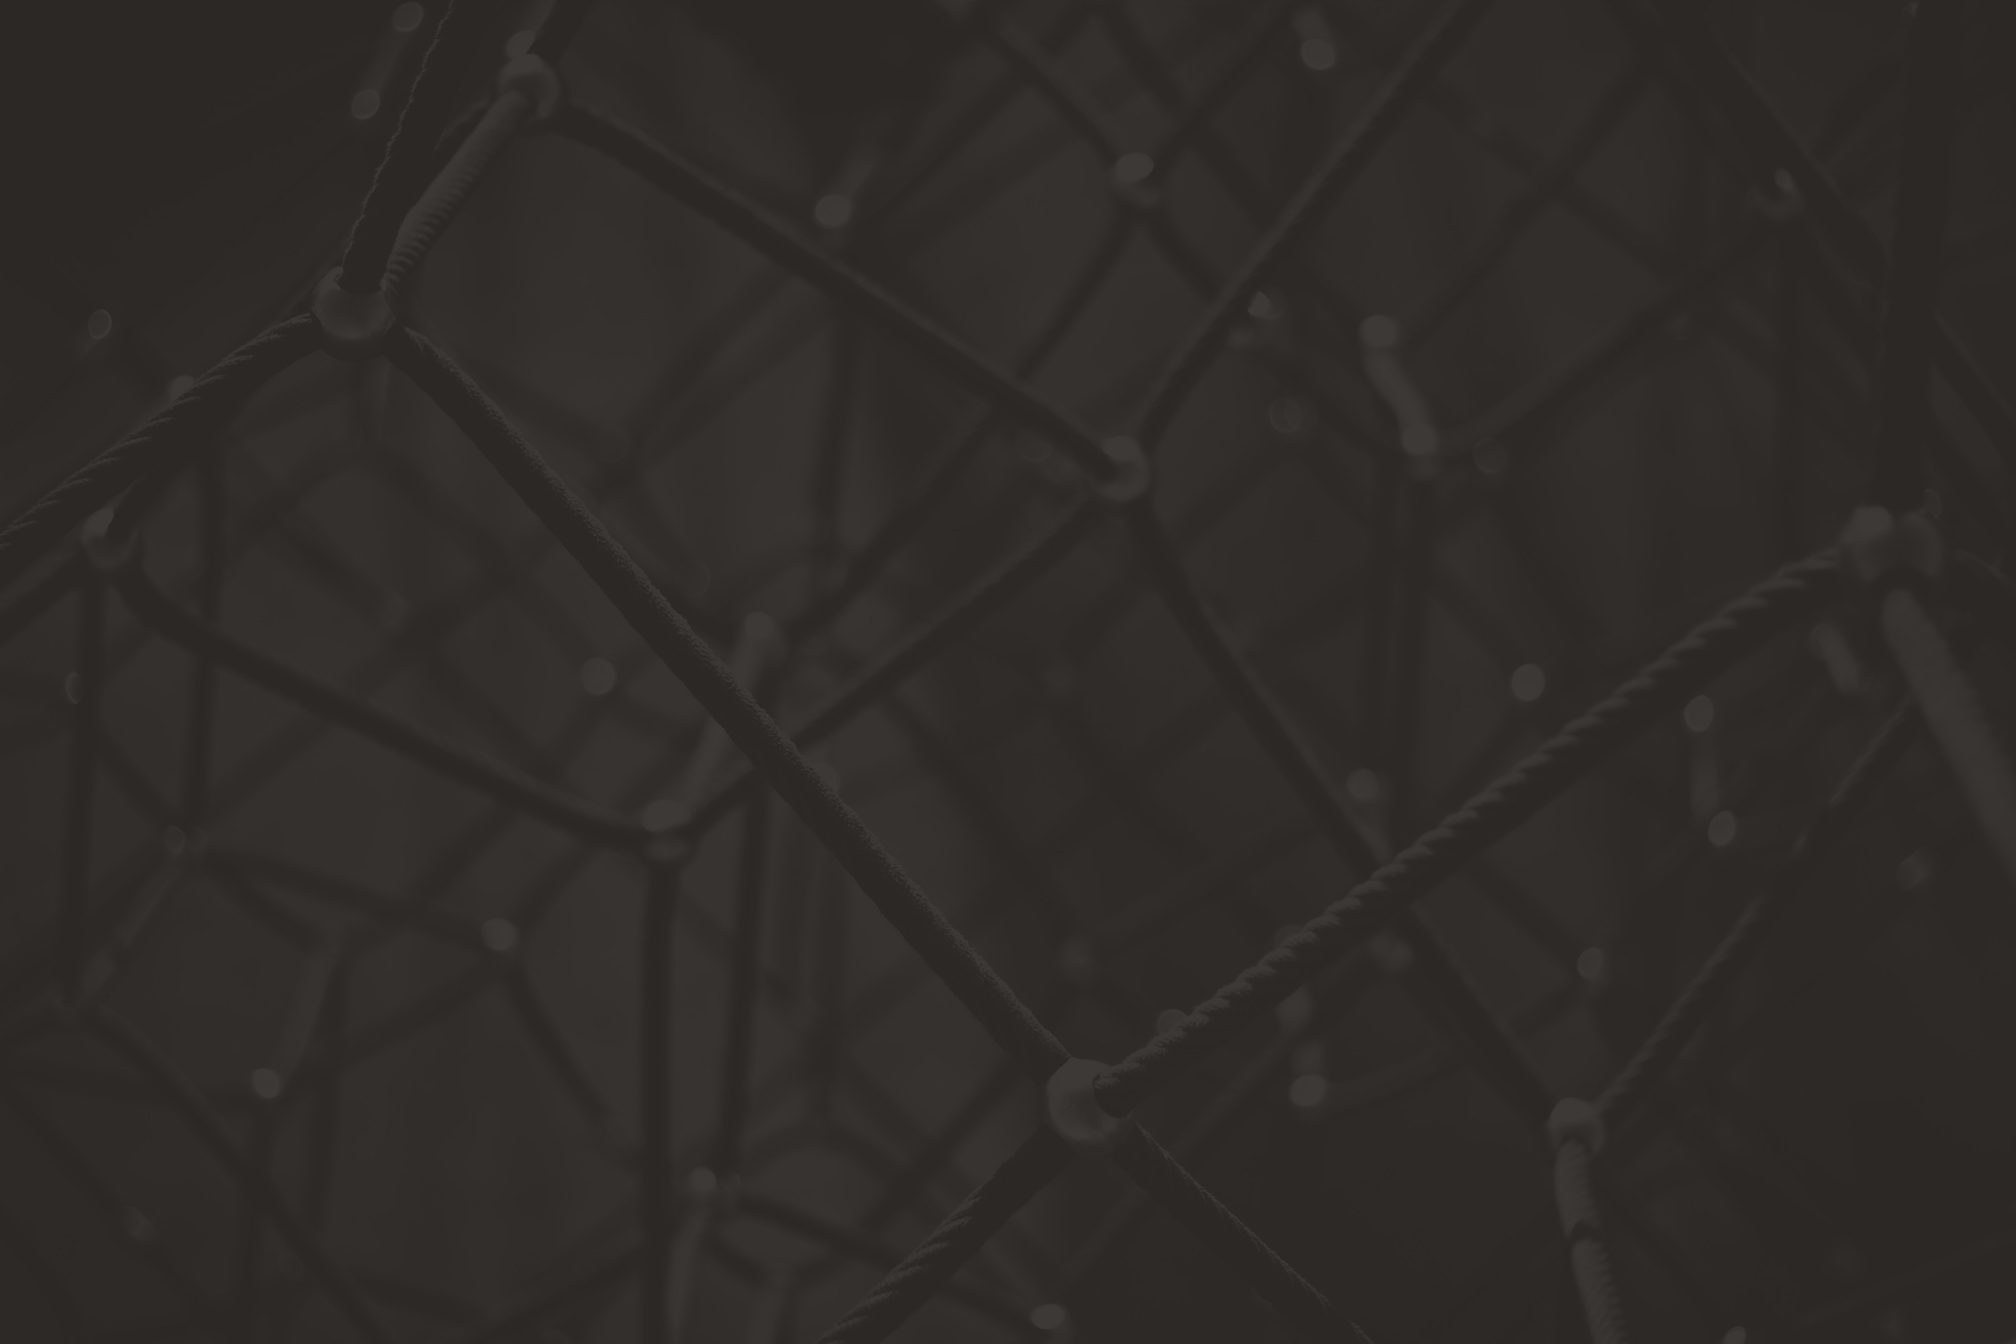
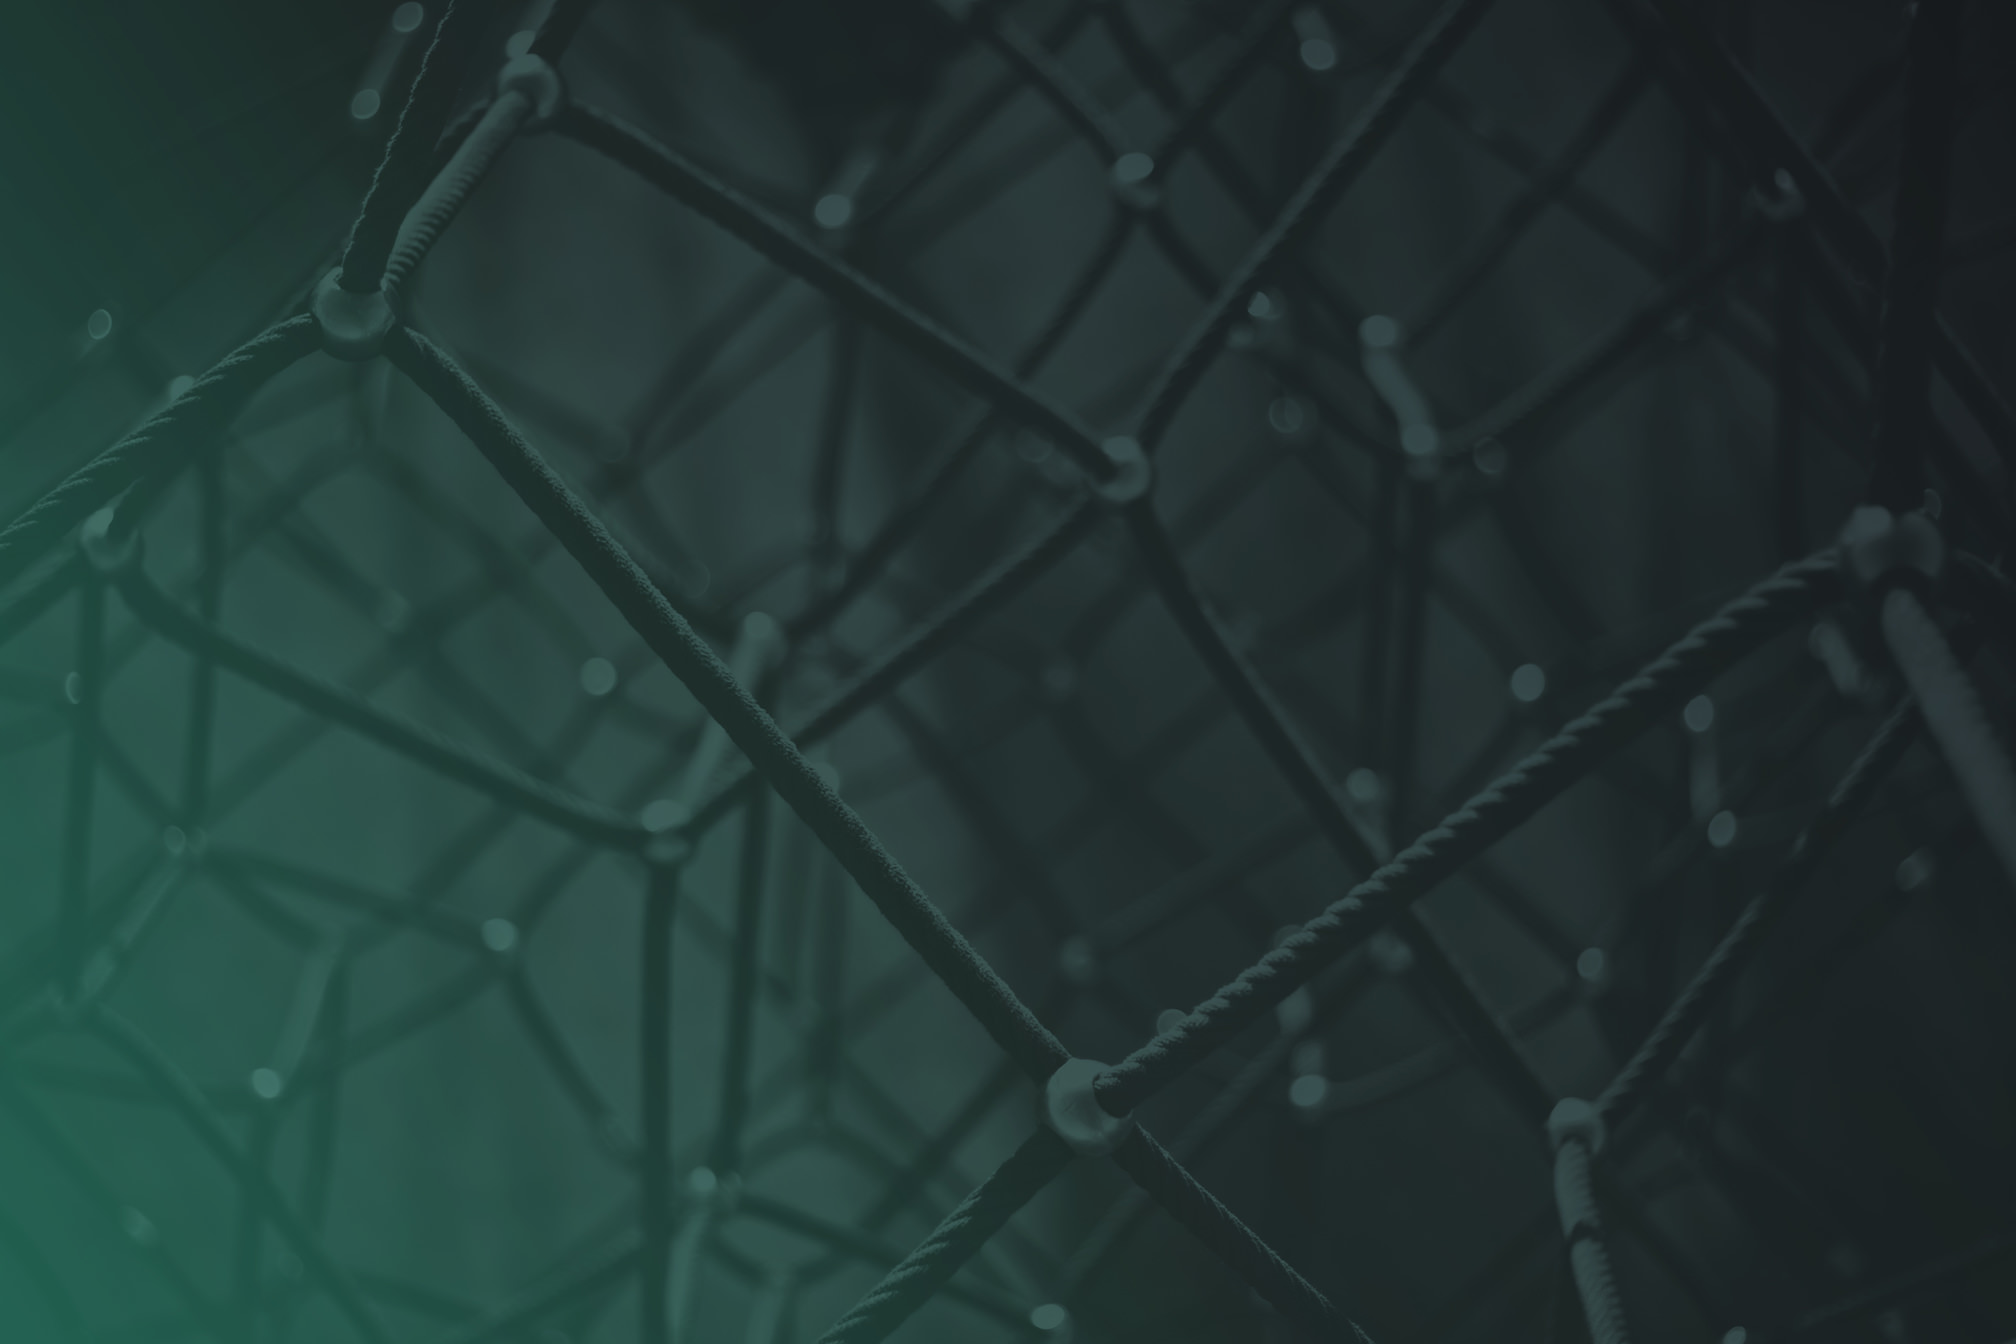
Change colors to blue and green

diff --git a/_sass/1-config/_variables.sass b/_sass/1-config/_variables.sass
@@ -2,6 +2,8 @@
 $dev-red:                   #eb3c41
 $dev-green:                 #28b464
 $dev-blue:                  #418cd2
+$beyond-blue:               #1C3646
+$beyond-green:              #4EB7A8
 
 $dev-red-dark:              darken(#eb3c41, 20%)
 $dev-green-dark:            darken(#28b464, 20%)
@@ -32,9 +34,10 @@ $base-line-height:          1.5
 $display-line-height:       1.3
 
 $base-border:               1px solid #e1e1e1
+$base-border-radius:        4px
 
-$base-box-shadow:           1px 1px 3px rgba(0,37,55,.1)
-$hover-box-shadow:          3px 3px 3px rgba(0,37,55,.1)
+$base-box-shadow:           1px 1px 2px rgba(0,37,55,.1)
+$hover-box-shadow:          3px 3px 2px rgba(0,37,55,.1)
 $base-text-shadow:          0 1px 3px rgba(50,50,50,.4)
 
 $base-transition:          .2s ease-out
@@ -43,14 +46,18 @@ $base-transition:          .2s ease-out
 // Cards
 $card-background-color:     $white
 $card-border:               $base-border
+$card-border-radius:        $base-border-radius
 $card-box-shadow:           $base-box-shadow
 $card-margin-mobile:        2rem
 $card-margin-desktop:       4rem
+$card-ribbon-background-color:  $beyond-green
+$card-ribbon-background-color-shade: darken($beyond-green, 10%)
 
 // Navbar
 $navbar-height:             80px
-$navbar-background-color:   $gray-dark
-$navbar-border:             1px solid $gray-mid
+$navbar-background-color:   $beyond-blue
+$navbar-border:             1px solid lighten($navbar-background-color, 10%)
+$navbar-input-background-color:  lighten($navbar-background-color, 10%)
 
 // Header
 $header-height:             400px

diff --git a/_sass/2-components/_cards.sass b/_sass/2-components/_cards.sass
@@ -1,6 +1,7 @@
 .card
   background: $card-background-color
   border: $card-border
+  border-radius: $card-border-radius
   box-shadow: $card-box-shadow
 
   &--markdown
@@ -102,12 +103,14 @@
       position: relative
       height: 230px
       background-size: cover
+      border-top-left-radius: $card-border-radius
+      border-top-right-radius: $card-border-radius
 
     &__category
       position: absolute
       top: 2rem
       left: -1rem
-      background-color: $dev-blue
+      background-color: $card-ribbon-background-color
       color: $white
       line-height: 1
       font-weight: bold
@@ -115,9 +118,11 @@
       font-size: 1.6rem
       letter-spacing: .05em
       box-shadow: $hover-box-shadow
+      border-top-right-radius: $base-border-radius
+      border-bottom-right-radius: $base-border-radius
 
       &:hover
-        background-color: darken($dev-blue, 10%)
+        background-color: $card-ribbon-background-color-shade
         transition: $base-transition
 
       &::before
@@ -129,7 +134,7 @@
         height: 0
         border-style: solid
         border-width: 0 1rem 1rem 0
-        border-color: transparent $dev-blue-dark transparent transparent
+        border-color: transparent $card-ribbon-background-color-shade transparent transparent
 
     &__body
       padding: 2rem

diff --git a/_sass/2-components/_navbar.sass b/_sass/2-components/_navbar.sass
@@ -65,7 +65,8 @@
       &:hover,
       &:focus,
       &.active
-        text-decoration: underline
+        text-decoration: none
+        color: $beyond-green
 
     &__button
       float: right
@@ -107,7 +108,7 @@
       transition: width .2s ease-out
       width: 100%
       color: $white
-      background-color: #3f3f3f
+      background-color: $navbar-input-background-color
       padding: .4em.8em
       box-sizing: border-box
 
